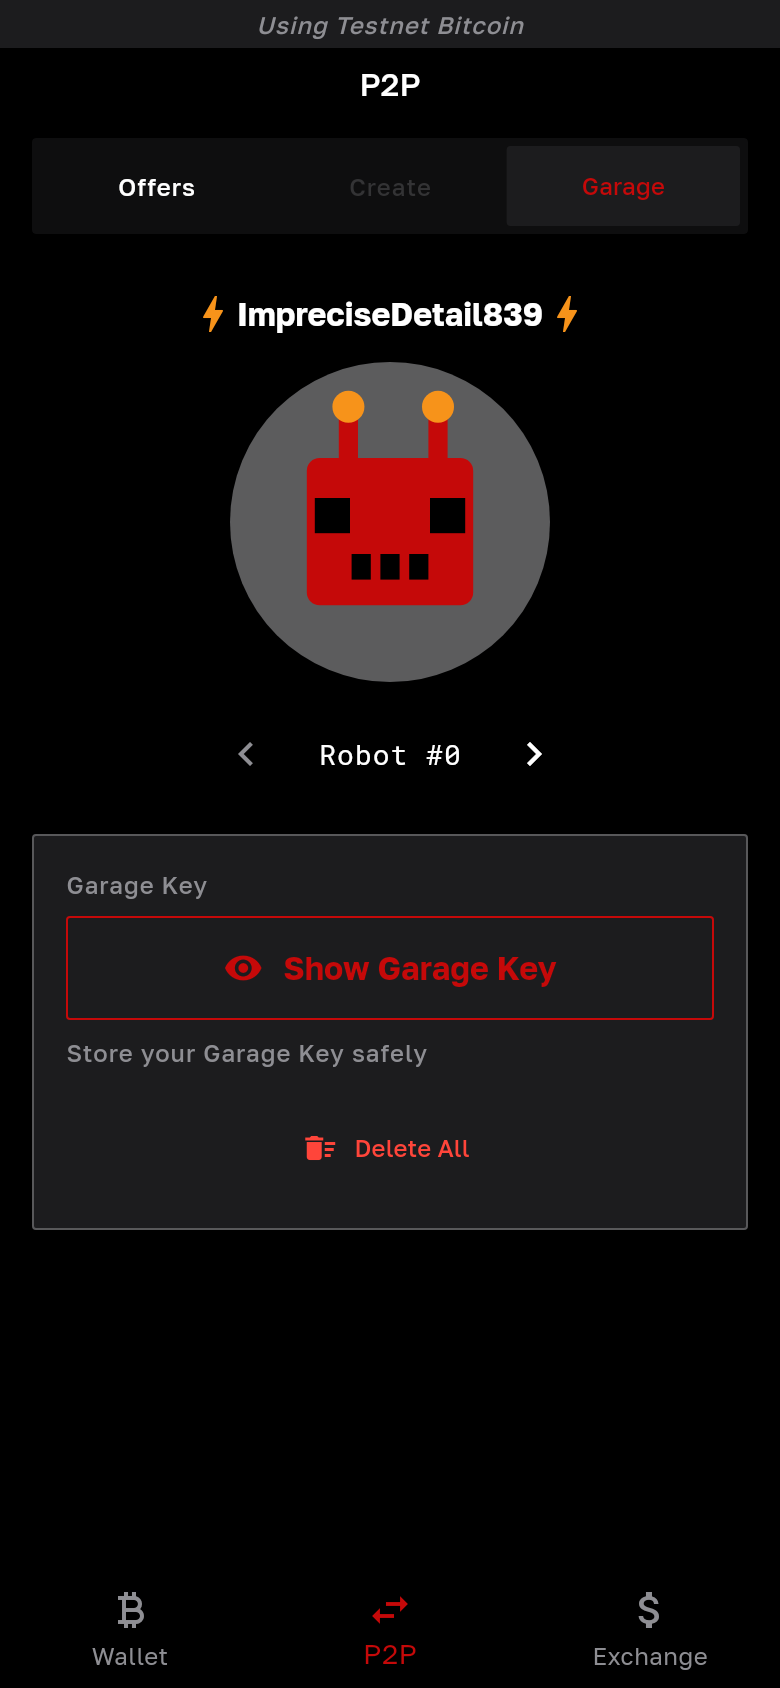
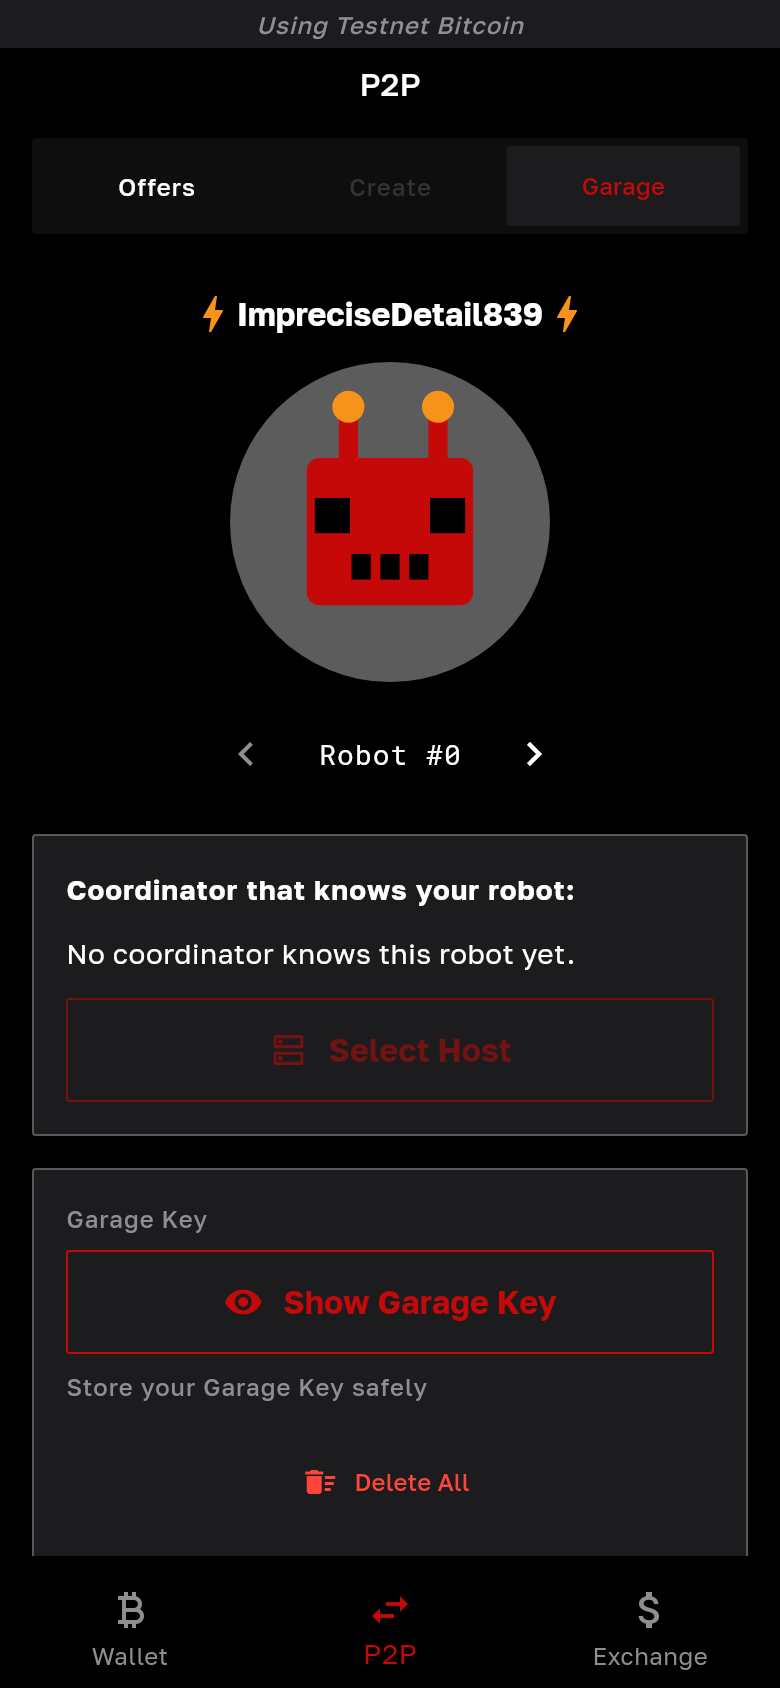
docs: the Garage's robot panel in the README, with four screenshots
The Garage section says that a robot goes to the coordinator the user picks and confirms, is read back at each display, and that the choice is optional; four screenshots of the panel, Select Host, the confirmation and the card, in English and French; the profile screenshot now shows the panel; the status lines say that the Garage contacts coordinators.

Changed region(s): [[0.0308, 0.5237, 0.9846, 0.9242], [0.8923, 0.5853, 0.9231, 0.6161]]

diff --git a/README.md b/README.md
@@ -71,7 +71,7 @@ A few notes on what the mock-up shows:
 
 ## Screens in the app
 
-> These are **real screens**, rendered from the app's own code by a test: the order book screens with books recorded from the RoboSats coordinators on November 10, 2026 (Gumpellite, added to the app's coordinator list after that recording, shows as offline), and the Garage, on testnet, with the public example Garage Key of the RoboSats tests (the backup alert shows a throwaway key drawn by the test, kept hidden). They are only visible when both superuser mode and developer mode are on. The order book screens were tried on a phone with a debug build; the Garage screens have not been tried on a phone yet (see the status below).
+> These are **real screens**, rendered from the app's own code by a test: the order book screens with books recorded from the RoboSats coordinators on November 10, 2026 (Gumpellite, added to the app's coordinator list after that recording, shows as offline), and the Garage, on testnet, with the public example Garage Key of the RoboSats tests (the backup alert shows a throwaway key drawn by the test, kept hidden); its robot panel, on mainnet, with that key and coordinators played by the test, so nothing was sent anywhere. They are only visible when both superuser mode and developer mode are on. The order book screens were tried on a phone with a debug build; the Garage screens have not been tried on a phone yet (see the status below).
 
 <table>
   <tr>
@@ -96,16 +96,22 @@ What these screens do today, read-only: wait for Tor inside the tab, load the or
     <td align="center"><img src="docs/screenshots/en-garage-robot.png" width="170" alt="App screen: step 2 of the Garage, the first robot with its avatar and nickname"><br><sub>The first robot</sub></td>
     <td align="center"><img src="docs/screenshots/en-garage-profile.png" width="170" alt="App screen: Garage profile, the robot navigator and the Garage Key hidden"><br><sub>Profile, key hidden</sub></td>
   </tr>
+  <tr>
+    <td align="center"><img src="docs/screenshots/en-garage-robot-panel.png" width="170" alt="App screen: Garage profile, the panel Coordinator that knows your robot, with no coordinator yet and the Select Host button"><br><sub>Which coordinator knows the robot</sub></td>
+    <td align="center"><img src="docs/screenshots/en-garage-select-host.png" width="170" alt="App screen: Select Host, the six coordinators of the list, one of them offline"><br><sub>Select Host</sub></td>
+    <td align="center"><img src="docs/screenshots/en-garage-send-robot.png" width="170" alt="App screen: confirmation before the robot is sent to Temple of Sats"><br><sub>Confirm before sending</sub></td>
+    <td align="center"><img src="docs/screenshots/en-garage-robot-card.png" width="170" alt="App screen: what TheBigLake says of the robot: its last order, rewards and warnings"><br><sub>What the coordinator says</sub></td>
+  </tr>
 </table>
 
-The Garage (RoboSats' name for the screen that holds the Garage Key and its robots) works on the device only. With no key stored, it generates a Garage Key or takes a pasted one, shows it for backup with RoboSats' alert, and shows the first robot derived from it; from the welcome screen, "Recovery" stores a pasted key. With a key stored, the user can browse the robots, show the key again behind the wallet's PIN (when one is set), and delete the key. The key is kept, one per network, in the wallet's secure storage on the device (`packages/secrets`, which also holds the seeds), never in a wallet backup: the user backs it up separately. The whole Garage asks for the wallet's screen-capture protection, as the seed screens do (on unless the user turned "Screen Privacy" off in the wallet's settings; not yet checked on a phone). Nothing is sent to a coordinator yet, and each visit starts again at robot 0.
+The Garage (RoboSats' name for the screen that holds the Garage Key and its robots) works on the device, but for its robot panel. With no key stored, it generates a Garage Key or takes a pasted one, shows it for backup with RoboSats' alert, and shows the first robot derived from it; from the welcome screen, "Recovery" stores a pasted key. With a key stored, the user can browse the robots, show the key again behind the wallet's PIN (when one is set), and delete the key. Under each robot, a panel shows the coordinator that knows it, as RoboSats' profile does: a robot goes to a coordinator only when the user picks one with "Select Host" and confirms (RoboSats sends every robot it shows to every coordinator; here a robot lives on one coordinator only), and a robot already sent is read back from its coordinator each time it is shown (its orders, as plain text, and its rewards). Choosing a coordinator there is optional. A Garage Key that was pasted cannot send its robots yet: the confirmation it needs comes next. The key is kept, one per network, in the wallet's secure storage on the device (`packages/secrets`, which also holds the seeds), never in a wallet backup: the user backs it up separately. The whole Garage asks for the wallet's screen-capture protection, as the seed screens do (on unless the user turned "Screen Privacy" off in the wallet's settings; not yet checked on a phone). Each visit starts again at robot 0.
 
 <details>
 <summary>Captures en français</summary>
 
 <br>
 
-*Écrans réels, rendus par le code de l'application dans un test : les écrans du carnet d'ordres (lecture seule) avec des carnets enregistrés le 10 novembre 2026 (Gumpellite, ajouté à la liste des coordinateurs de l'application après cet enregistrement, apparaît hors ligne) ; le Garage, sur testnet, avec la clé de garage d'exemple, publique, des tests de RoboSats (l'alerte de sauvegarde montre une clé jetable tirée par le test, masquée). Visibles uniquement en mode super-utilisateur et développeur. Les écrans du carnet ont été essayés sur un téléphone avec une version de débogage ; le Garage ne l'a pas encore été.*
+*Écrans réels, rendus par le code de l'application dans un test : les écrans du carnet d'ordres (lecture seule) avec des carnets enregistrés le 10 novembre 2026 (Gumpellite, ajouté à la liste des coordinateurs de l'application après cet enregistrement, apparaît hors ligne) ; le Garage, sur testnet, avec la clé de garage d'exemple, publique, des tests de RoboSats (l'alerte de sauvegarde montre une clé jetable tirée par le test, masquée) ; son panneau du robot, sur mainnet, avec cette clé et des coordinateurs joués par le test : rien n'a été envoyé. Visibles uniquement en mode super-utilisateur et développeur. Les écrans du carnet ont été essayés sur un téléphone avec une version de débogage ; le Garage ne l'a pas encore été.*
 
 <table>
   <tr>
@@ -128,13 +134,19 @@ The Garage (RoboSats' name for the screen that holds the Garage Key and its robo
     <td align="center"><img src="docs/screenshots/fr-garage-robot.png" width="170" alt="Écran de l'application : étape 2 du Garage, le premier robot avec son avatar et son pseudo"><br><sub>Le premier robot</sub></td>
     <td align="center"><img src="docs/screenshots/fr-garage-profile.png" width="170" alt="Écran de l'application : profil du Garage, navigation entre robots et clé de garage masquée"><br><sub>Le profil, clé masquée</sub></td>
   </tr>
+  <tr>
+    <td align="center"><img src="docs/screenshots/fr-garage-robot-panel.png" width="170" alt="Écran de l'application : profil du Garage, le panneau « Coordinateur qui connaît votre robot », sans coordinateur, avec le bouton « Sélectionner l'hôte »"><br><sub>Le coordinateur du robot</sub></td>
+    <td align="center"><img src="docs/screenshots/fr-garage-select-host.png" width="170" alt="Écran de l'application : « Sélectionner l'hôte », les six coordinateurs de la liste, dont un hors ligne"><br><sub>Sélectionner l'hôte</sub></td>
+    <td align="center"><img src="docs/screenshots/fr-garage-send-robot.png" width="170" alt="Écran de l'application : confirmation avant d'envoyer le robot chez Temple of Sats"><br><sub>Confirmer l'envoi</sub></td>
+    <td align="center"><img src="docs/screenshots/fr-garage-robot-card.png" width="170" alt="Écran de l'application : ce que TheBigLake dit du robot : son dernier ordre, ses compensations et des avertissements"><br><sub>Ce que dit le coordinateur</sub></td>
+  </tr>
 </table>
 
 </details>
 
 ## How a trade works
 
-The planned flow is the RoboSats one; only the first three steps exist in the app so far (the robots on the device only), and no order can be taken yet. Example for a buyer who takes an order:
+The planned flow is the RoboSats one; only the first three steps exist in the app so far (a robot can be sent to one coordinator from the Garage), and no order can be taken yet. Example for a buyer who takes an order:
 
 1. **Tor.** The P2P tab connects to the Tor network; the wallet stays usable in the meantime.
 2. **Robot.** The app creates a Garage Key, a master key from which it derives as many robots as needed. A robot is a disposable identity: a nickname, an avatar and its own keys.
@@ -165,13 +177,13 @@ What already exists in the code:
 - **A first contact over Tor**: a test reaches the real coordinators through the wallet's embedded Tor, on a PC ([measurements](docs/spikes/tor-robosats.md)).
 - **Reading the coordinators over the wallet's Tor**: the `features/p2p` module plugs this reading into the wallet's embedded Tor ([#27](https://github.com/Skyman21m/troc/issues/27)). Its own live test ran once, on a desktop PC behind a VPN, before the review fixes ([report](docs/spikes/tor-transport.md)); the robot test and the phone trials below have since gone through the corrected transport live, without targeting the fixed paths.
 - **The order book screens of the P2P tab**: Tor wait, order book and its depth chart, order details, the details of a coordinator and the search of an order by its URL, read-only, behind superuser and developer mode ([#29](https://github.com/Skyman21m/troc/issues/29), [#30](https://github.com/Skyman21m/troc/issues/30)). Tested with recorded order books.
-- **A robot on a coordinator**: the code creates a robot on a coordinator and reads it back, over a Tor session of its own, and refuses any answer that is not the robot and the key pair of this device. A test did it six times on one testnet coordinator, from a desktop build ([report](docs/spikes/robot-coordinator.md)). No screen uses it yet ([#28](https://github.com/Skyman21m/troc/issues/28)).
+- **A robot on a coordinator**: the code creates a robot on a coordinator and reads it back, over a Tor session of its own, and refuses any answer that is not the robot and the key pair of this device. A test did it six times on one testnet coordinator, from a desktop build ([report](docs/spikes/robot-coordinator.md)). The Garage's robot panel uses it ([#28](https://github.com/Skyman21m/troc/issues/28), [#29](https://github.com/Skyman21m/troc/issues/29)); the panel itself has only been tested with coordinators played by the tests.
 - **The Garage Key kept in the wallet's secure storage**: one per network (mainnet and testnet), random, never derived from the wallet's seed and never part of its backup; the P2P module can generate, import, find, delete it and derive its robots, only in the app in the foreground, and the custody checks limit which files may read it ([#28](https://github.com/Skyman21m/troc/issues/28)).
-- **The Garage screens**: generate or paste a Garage Key, back it up, meet the first robot, the profile with the key behind the wallet's PIN (when one is set), robot recovery from a pasted key, and deleting the key; on the device only, nothing is sent to a coordinator ([#29](https://github.com/Skyman21m/troc/issues/29)). The whole Garage asks for the wallet's screen-capture protection, as the seed screens do (on unless the user turned "Screen Privacy" off in the wallet's settings; not yet checked on a phone). Tested over an in-memory stand-in for the secure storage. Before any release, a copied key is to be flagged as sensitive to Android, and a key typed into the app is to be kept away from the system keyboard ([#56](https://github.com/Skyman21m/troc/issues/56)).
+- **The Garage screens**: generate or paste a Garage Key, back it up, meet the first robot, the profile with the key behind the wallet's PIN (when one is set), robot recovery from a pasted key, deleting the key, and the robot panel, which sends a robot to the coordinator the user picks and confirms, then reads it back ([#29](https://github.com/Skyman21m/troc/issues/29)). The whole Garage asks for the wallet's screen-capture protection, as the seed screens do (on unless the user turned "Screen Privacy" off in the wallet's settings; not yet checked on a phone). Tested over an in-memory stand-in for the secure storage. Before any release, a copied key is to be flagged as sensitive to Android, and a key typed into the app is to be kept away from the system keyboard ([#56](https://github.com/Skyman21m/troc/issues/56)).
 - **A first trial on a phone** (November 11, 2026, one Android phone, debug build): the P2P tab appeared, Tor connected in about 30 seconds, the six coordinators of the mainnet list all ended up answering, some later than others, and the order book, its filters (which ones were tried was not recorded), pull to refresh, the order details and the reversible-payment warning worked. This is what the tester saw; nothing was measured. Not checked on the phone: the low-bond warning, the testnet banner, the Tor error and its retry, an offline coordinator, the English texts.
 - **A second trial on a phone** (later on November 11, 2026, debug build of `main` at `55ba5139c`): the tester reported that everything tried worked as expected, the coordinator details, the Search entry and the depth chart included; what exactly was tried on each screen was not recorded. That build came before the Garage screens, which have not been tried on a phone yet.
 
-In progress: binding each robot to a single coordinator before any request, since a robot's credential is the same on every coordinator ([#28](https://github.com/Skyman21m/troc/issues/28)), then contacting the coordinators from the Garage ([#29](https://github.com/Skyman21m/troc/issues/29)).
+In progress: contacting the coordinators from the Garage, each robot bound to a single coordinator before any request, since a robot's credential is the same on every coordinator ([#28](https://github.com/Skyman21m/troc/issues/28), [#29](https://github.com/Skyman21m/troc/issues/29)); next, the confirmation a pasted Garage Key needs before its robots can be sent.
 
 Next, once the bond decision is made ([#9](https://github.com/Skyman21m/troc/issues/9)): taking an order (phase 2, [#12](https://github.com/Skyman21m/troc/issues/12)).
 
@@ -186,7 +198,7 @@ Troc adds two modules to Bull's code; Troc touches the rest as little as possibl
 | Module | Role |
 |---|---|
 | [`packages/robosats`](packages/robosats/README.md) | Part of the RoboSats protocol in pure Dart, with no screen and no network access of its own: robot identity, OpenPGP, reading the coordinators. It talks to the network through an entry point that the app provides. |
-| `features/p2p` | The app side: the transport over the wallet's Tor and its facade ([#27](https://github.com/Skyman21m/troc/issues/27)), and the screens of the P2P tab, shown only in superuser and developer mode: the order book and its views, read-only ([#30](https://github.com/Skyman21m/troc/issues/30)), and the Garage, on the device only ([#29](https://github.com/Skyman21m/troc/issues/29)), whose Garage Key is kept in the wallet's secure storage (`packages/secrets`). The map view is not built yet. |
+| `features/p2p` | The app side: the transport over the wallet's Tor and its facade ([#27](https://github.com/Skyman21m/troc/issues/27)), and the screens of the P2P tab, shown only in superuser and developer mode: the order book and its views, read-only ([#30](https://github.com/Skyman21m/troc/issues/30)), and the Garage, whose robot panel alone contacts a coordinator ([#29](https://github.com/Skyman21m/troc/issues/29)), whose Garage Key is kept in the wallet's secure storage (`packages/secrets`). The map view is not built yet. |
 
 Principles:
 
